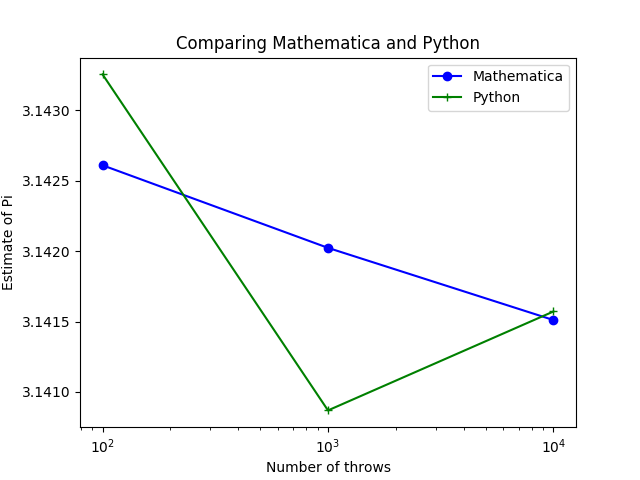
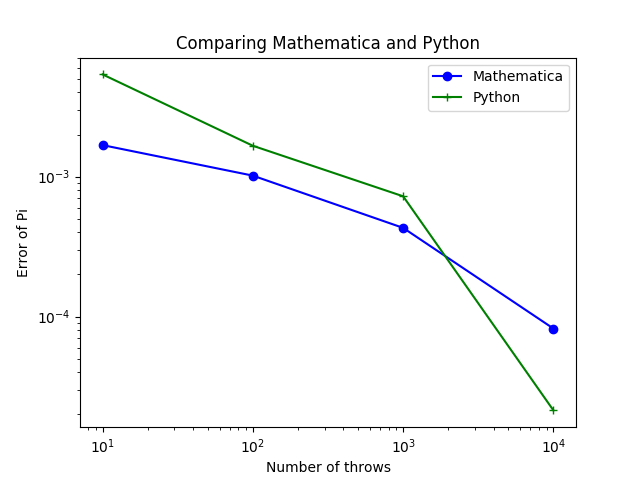
Stats to run on hpcc

diff --git a/buffon_3d.py b/buffon_3d.py
@@ -316,21 +316,31 @@ def compare_mathematica_python(x_axis, fig_name):
     mathematica_std.append(np.std(mathematica_results))
     python_means.append(np.mean(python_results))
     python_std.append(np.std(python_results))
+  python_error_means = abs(np.subtract([np.pi] * len(python_means), python_means))
+  mathematica_error_means = abs(np.subtract([np.pi] * len(mathematica_means),  mathematica_means))
   # plt.errorbar(x_axis, mathematica_means, mathematica_std, fmt='bo-', ecolor='red')
   # plt.errorbar(x_axis, python_means, python_std, fmt='g+-', ecolor='yellow')
-  plt.plot(x_axis, mathematica_means, 'bo-', label="Mathematica")
-  plt.plot(x_axis, python_means, 'g+-', label="Python")
+  plt.plot(x_axis, mathematica_error_means, 'bo-', label="Mathematica")
+  plt.plot(x_axis, python_error_means, 'g+-', label="Python")
+  print("# Mathematica")
+  print(mathematica_error_means)
+  print("# Python")
+  print(python_error_means)
+  # plt.plot(x_axis, mathematica_means, 'bo-', label="Mathematica")
+  # plt.plot(x_axis, python_means, 'g+-', label="Python")
   plt.legend()
-  plt.ylabel("Estimate of Pi")
+  # plt.ylabel("Estimate of Pi")
+  plt.ylabel("Error of Pi")
   plt.xlabel("Number of throws")
   plt.xscale("log")
+  plt.yscale("log")
   plt.title("Comparing Mathematica and Python")
   plt.savefig(fig_name)
   plt.clf()
 
 
 def _compare_mathematica_python():
-  compare_mathematica_python([100, 1000, 10000], "fg_asym_pi_triplegrid_mathematica_vs_python.png")
+  compare_mathematica_python([10, 100, 1000, 10000], "fg_asym_pi_triplegrid_mathematica_vs_python.png")
 
 
 def _throws_experiments():
